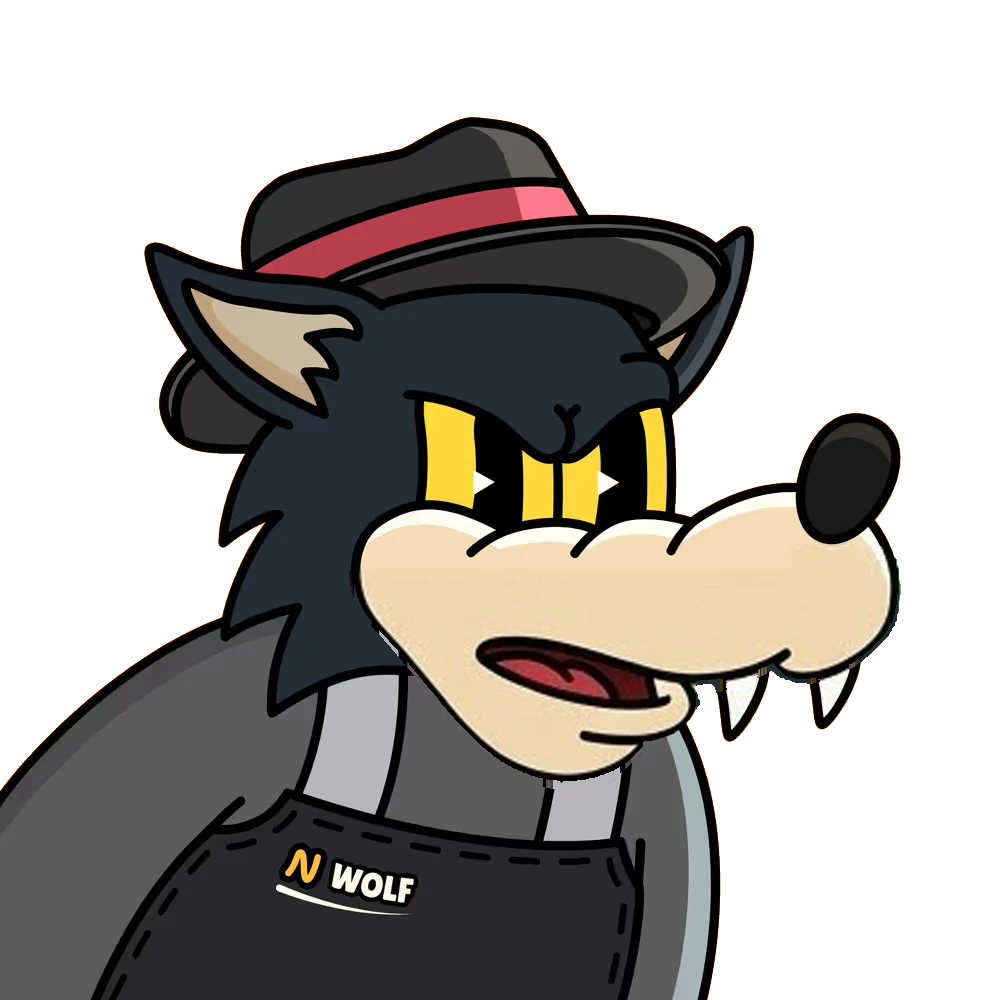
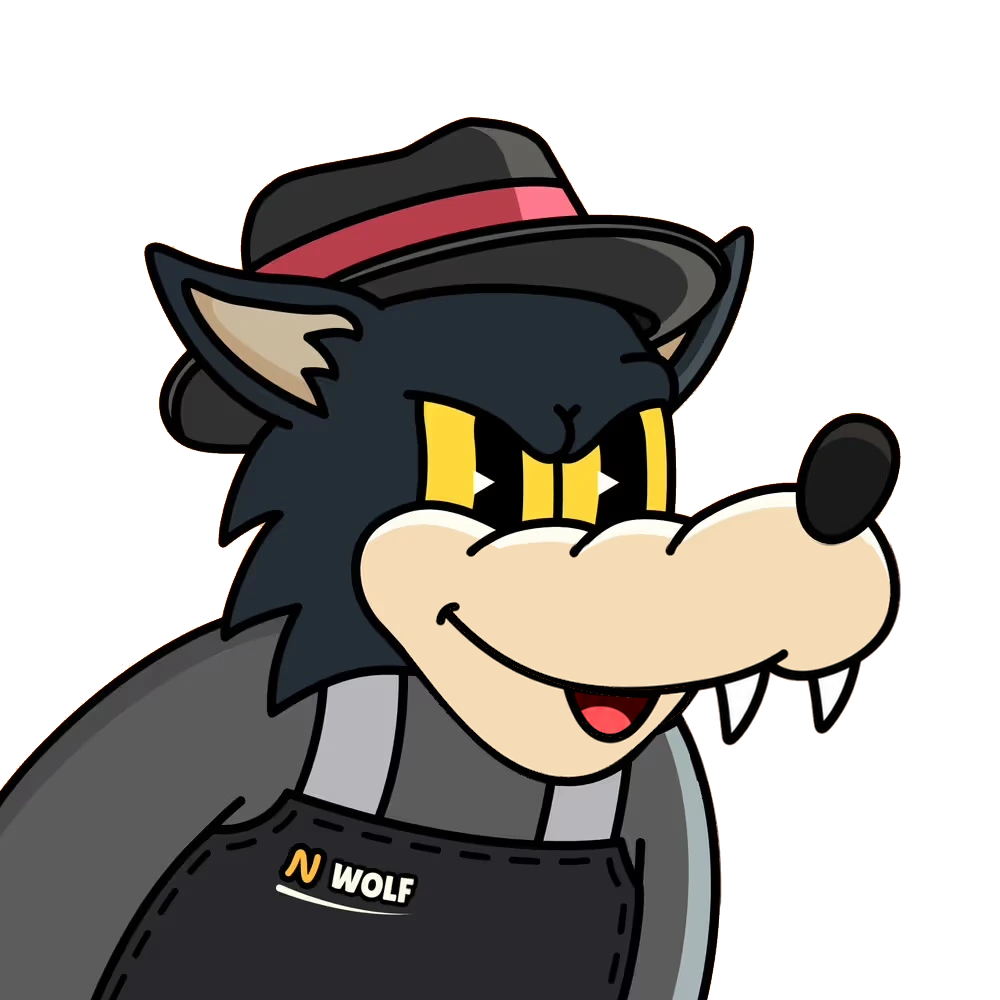
Wolf kit (#271): new mouths from GEAUX's six Gemini pictures (closed, small open, AH, EE, O, OO; F/V, L and frown from them), taken whole from the lined-up pictures (fit 0.999), the fangs gone in O and OO, the muzzle in the picture's own cream, the picture's own clothes kept. Kit engine: a wearer's 
Claude-Session: https://claude.ai/code/session_01AAjfD4JXrwKrGtAMJHTTVa

diff --git a/beta/kit.js b/beta/kit.js
@@ -395,6 +395,11 @@ export function fromKit(Timg, ref, { blink = true, dbg = null, wideFace = false,
       // the reference's clothes showing: filled from this Nibble's own; any other colour (a lighter lip Gemini drew) is its chin
       if (chinT && !inPal(clothP, D[i], D[i + 1], D[i + 2]) && !map(D[i], D[i + 1], D[i + 2])) { const sc = Math.min(1.1, lum(D, i) / lumJaw); subst0.set(p, chinT.map(v => Math.max(0, Math.min(255, Math.round(v * sc))))); }
       else hole[p] = 1; }
+    // where this Nibble shows its own clothes (or their outlines) in its own picture, they're simply there: kept, not
+    // guessed from around (the guess left scraps of shirt and skin under the chin, GEAUX's sitcom wolves)
+    const ownCloth = new Uint8Array(N * N);
+    for (let p = 0; p < N * N; p++) { if (!hole[p] && !(useG[p] && subst0.has(p))) continue; const i = p * 4;
+      if (T[i + 3] > 200 && !(D[i + 3] > 150 && lum(D, i) < 100) && (tCloth[p] || (lum(T, i) < 100 && tClothNear[p]))) { hole[p] = 0; subst0.delete(p); ownCloth[p] = 1; } }   // (never the mouth's own outline)
     for (let p = 0; p < N * N; p++) if (stick[p] && !useG[p]) { hole[p] = 1; useG[p] = 1; }
     // nothing of the reference's own body may come through: where this mouth leaves the reference's clothes or
     // accessories as they were, this Nibble keeps its own; where it shows them moved, or shows any colour this Nibble
@@ -402,11 +407,17 @@ export function fromKit(Timg, ref, { blink = true, dbg = null, wideFace = false,
     // unchanged by this mouth: the same colour AND both there (an ink line the mouth draws past the reference's outline,
     // where the reference is see-through black, isn't 'unchanged': it was being dropped, leaving gaps in the outline)
     const sameDR = i => dist(D, i, R, i) <= 30 && Math.abs(D[i + 3] - R[i + 3]) <= 60;
-    const keepT = new Uint8Array(N * N), foreign = new Uint8Array(N * N), subst = subst0;
-    for (let p = 0; p < N * N; p++) { if (!useG[p] || hole[p] || subst.has(p)) continue; const i = p * 4; if (D[i + 3] < 200) continue;
+    const keepT = ownCloth, foreign = new Uint8Array(N * N), subst = subst0;
+    for (let p = 0; p < N * N; p++) { if (!useG[p] || hole[p] || subst.has(p) || keepT[p]) continue; const i = p * 4; if (D[i + 3] < 200) continue;
       const mouthy = isMouthC(D[i], D[i + 1], D[i + 2]);
+      // the reference's own clothes (not skin, not ink), only redrawn a shade off by the image tool: never part of a
+      // talking mouth, this Nibble's own stays (a grey suspender came through as cream scraps on a plaid shirt)
+      if (!mouthy && R[i + 3] > 200 && lum(R, i) >= 150 && !isSkin(R, i) && !isMouthC(R[i], R[i + 1], R[i + 2]) && dist(D, i, R, i) < 100 && !isSkin(D, i)) { keepT[p] = 1; continue; }
       // unchanged by this mouth: this Nibble's own, except where its own mouth is being replaced
       if (sameDR(i) && T[i + 3] < 40) { keepT[p] = 1; continue; }
+      // and where no talking mouth of the kit changes anything at all (below the jaw: the reference's suspenders, collar,
+      // neck): this Nibble's own, always (they were recoloured as if skin and left cream scraps on a plaid shirt)
+      if (sameDR(i) && hits[p] < 2 && T[i + 3] > 200) { keepT[p] = 1; continue; }
       // below the mouth, outside the mouth itself, unchanged by this mouth: this Nibble's own clothes and their lines stay
       // (a naked reference's neck fur was painted over a tank top's neckline)
       if (sameDR(i) && ((p / N) | 0) > zy && T[i + 3] > 200 && (tCloth[p] || (lum(T, i) < 100 && tClothNear[p]))) { keepT[p] = 1; continue; }   // this Nibble has nothing here (the reference's backpack edge isn't its)
@@ -430,9 +441,24 @@ export function fromKit(Timg, ref, { blink = true, dbg = null, wideFace = false,
       hole[p] = 1; } }
     // a hole on the reference's jaw skin that isn't its clothes showing (a lip, a chin shade): this Nibble's own chin colour
     if (chinT) for (let p = 0; p < N * N; p++) { if (!hole[p] || stick[p]) continue; const i = p * 4;
+      if (T[i + 3] > 200 && !(D[i + 3] > 150 && lum(D, i) < 100) && (tCloth[p] || (lum(T, i) < 100 && tClothNear[p]))) { hole[p] = 0; keepT[p] = 1; continue; }   // (this Nibble's own clothes there: kept, not a chin-coloured arc)
       if ((onJawR(i) || (R[i + 3] > 200 && isSkin(R, i) && ((p / N) | 0) > zy)) && D[i + 3] > 200 && lum(D, i) >= 300 && !inPal(botP, D[i], D[i + 1], D[i + 2])) {
         hole[p] = 0; const sc = Math.min(1.1, lum(D, i) / lumJaw); subst.set(p, chinT.map(v => Math.max(0, Math.min(255, Math.round(v * sc))))); } }
     const fill = inpaint(T, grow(hole, 1), useG);
+    // something the kit's mouth takes away (the wolf's fangs, gone in the O and OO): what's behind it on this Nibble. Where
+    // the reference shows background around it and this Nibble shows background there too, background; where this Nibble
+    // has something there (a hood behind the fangs), that, in its own colour
+    const behind = new Map();
+    { const gone = new Uint8Array(N * N); for (let p = 0; p < N * N; p++) { const i = p * 4; if (useG[p] && R[i + 3] > 40 && D[i + 3] < 40 && T[i + 3] > 40) gone[p] = 1; }
+      const lab = new Int32Array(N * N), q = new Int32Array(N * N);
+      for (let s0 = 0; s0 < N * N; s0++) { if (!gone[s0] || lab[s0]) continue; let h = 0, t = 0; q[t++] = s0; lab[s0] = 1;
+        while (h < t) { const p = q[h++], x = p % N; for (const j of [x > 0 ? p - 1 : -1, x < N - 1 ? p + 1 : -1, p - N, p + N]) if (j >= 0 && j < N * N && gone[j] && !lab[j]) { lab[j] = 1; q[t++] = j; } }
+        // the ring just outside it where the reference shows background
+        const seen = new Set(), cols = []; let bgN = 0, n = 0;
+        for (let k = 0; k < t; k++) { const p = q[k], x = p % N; for (let dy = -8; dy <= 8; dy += 2) for (let dx = -8; dx <= 8; dx += 2) { const xx = x + dx, j = p + dy * N + dx; if (xx < 0 || xx >= N || j < 0 || j >= N * N || gone[j] || seen.has(j)) continue; seen.add(j);
+          if (R[j * 4 + 3] > 60) continue; n++; if (T[j * 4 + 3] < 60) bgN++; else if (lum(T, j * 4) >= 150) cols.push(j); } }
+        if (n && bgN < n * 0.5 && cols.length) { const md = c => { const v = cols.map(j => T[j * 4 + c]).sort((x, y) => x - y); return v[v.length >> 1]; }, c = [md(0), md(1), md(2)];
+          for (let k = 0; k < t; k++) behind.set(q[k], c); } } }
     if (dbg) { const c = new Uint8Array(N * N); for (let p = 0; p < N * N; p++) c[p] = !useG[p] ? 0 : hole[p] ? 3 : keepT[p] ? 2 : subst.has(p) ? 4 : 1; (dbg.cls = dbg.cls || [])[k] = c; }
     const a = soft(useG), c = cv(), g = c.getContext('2d'), id = g.createImageData(N, N), o = id.data;
     for (let p = 0; p < N * N; p++) { const i = p * 4, w = a[p];
@@ -445,7 +471,15 @@ export function fromKit(Timg, ref, { blink = true, dbg = null, wideFace = false,
       // Nibble's clothes stay (the reference is naked there; a shadow in its fur colour covered the shirt)
       const clothesT = !f && !teeth && !keepT[p] && !subst.has(p) && ((p / N) | 0) > zy && T[i + 3] > 200 && D[i + 3] > 200 && lum(D, i) < 330 && lum(D, i) >= 75 && isSkin(D, i)
         && !isMouthC(D[i], D[i + 1], D[i + 2]) && tBotP && inPal(tBotP, T[i], T[i + 1], T[i + 2]) && !inPal(tFaceP, T[i], T[i + 1], T[i + 2]) && !isSkin(R, i) === false && dist(T, i, R, i) > 60;
-      let m = f ? f : teeth ? [D[i], D[i + 1], D[i + 2]] : subst.has(p) ? subst.get(p) : keepT[p] || clothesT ? [T[i], T[i + 1], T[i + 2]] : (mapped(D, i) || [T[i], T[i + 1], T[i + 2]]); const da = f ? 255 : keepT[p] || clothesT ? T[i + 3] : D[i + 3];
+      // see-through in the kit's frame where the reference itself is (nearly) see-through: the mouth takes nothing away
+      // there, so this Nibble's own (a hood's edge beside the jaw came out see-through)
+      if (!f && D[i + 3] < 40 && R[i + 3] < 40 && T[i + 3] > 40 && !behind.has(p)) { for (let ch = 0; ch < 4; ch++) o[i + ch] = T[i + ch]; continue; }
+      if (behind.has(p)) { const c = behind.get(p); for (let ch = 0; ch < 3; ch++) o[i + ch] = Math.round(T[i + ch] * (1 - w) + c[ch] * w); o[i + 3] = 255;
+        const x = p % N, y = (p / N) | 0; if (x < mb[0]) mb[0] = x; if (y < mb[1]) mb[1] = y; if (x > mb[2]) mb[2] = x; if (y > mb[3]) mb[3] = y; continue; }
+      // a line the mouth draws (near-black, where the reference had something else): ink, never recoloured (a reference with
+      // near-black fur taught the map 'dark becomes red' on a hooded Nibble, and the new mouth's outline came out red)
+      const newInk = !f && D[i + 3] > 150 && lum(D, i) < 100 && Math.max(D[i], D[i + 1], D[i + 2]) - Math.min(D[i], D[i + 1], D[i + 2]) < 25 && (dist(D, i, R, i) > 40 || R[i + 3] < 150);
+      let m = f ? f : teeth || newInk ? [D[i], D[i + 1], D[i + 2]] : subst.has(p) ? subst.get(p) : keepT[p] || clothesT ? [T[i], T[i + 1], T[i + 2]] : (mapped(D, i) || [T[i], T[i + 1], T[i + 2]]); const da = f ? 255 : keepT[p] || clothesT ? T[i + 3] : D[i + 3];
       const shine = lum(D, i) >= 630 && Math.max(D[i], D[i + 1], D[i + 2]) - Math.min(D[i], D[i + 1], D[i + 2]) < 40 && !teethM[p];   // white, but not a block of teeth
       if (!f && !teeth && !keepT[p] && !subst.has(p) && D[i + 3] > 200 && lum(D, i) >= 160 && (shine || !isMouthC(D[i], D[i + 1], D[i + 2]))) {
         // a shine a touch lighter than the face (a lip highlight) is this Nibble's face colour, a touch lighter
@@ -496,7 +530,9 @@ export function fromKit(Timg, ref, { blink = true, dbg = null, wideFace = false,
         if (inZ < t * 0.25 && cy < zy - 20) { for (let k = 0; k < t; k++) acc[q[k]] = 1; continue; } }
       if (donor || rig) continue;   // (the donor already shows the face there; a drawn mouth leaves the rest of the face alone)
       if (inZ < t * 0.25 || t > 30000) continue;   // mostly outside the mouth: clothes, a collar, not the mouth
-      for (let k = 0; k < t; k++) { const p = q[k], i = p * 4; if (Zd[p] || R[i + 3] < 200 || T[i + 3] < 100) continue; if (isSkin(R, i) || lum(R, i) < 160) bh[p] = 1; } }
+      for (let k = 0; k < t; k++) { const p = q[k], i = p * 4; if (Zd[p] || R[i + 3] < 200 || T[i + 3] < 100) continue;
+        if (tBotP && inPal(tBotP, T[i], T[i + 1], T[i + 2]) && !inPal(tFaceP, T[i], T[i + 1], T[i + 2])) continue;   // (this Nibble's clothes: not its mouth; a plaid shirt's edge was painted cream)
+        if (isSkin(R, i) || lum(R, i) < 160) bh[p] = 1; } }
     { let n = 0; for (let p = 0; p < N * N; p++) if (acc[p] && Zd[p]) n++;
       if (n) { const am = new Uint8Array(N * N); for (let p = 0; p < N * N; p++) if (acc[p] && Zd[p]) am[p] = 1;
         const aw = soft(grow(am, 1), 0.8);

diff --git a/beta/index.html b/beta/index.html
@@ -499,7 +499,7 @@ const codeURL = f => new URL(CODE + f + '?v=' + ART_V, document.baseURI).href;
 // (and when one won't load, the tracking device notes the address and what the server said, so a phone's failure can be told
 // apart: not found, a network drop, or the script itself)
 const codeImport = f => import(codeURL(f)).catch(async e => { try { const r = await fetch(codeURL(f), { cache:'no-store' }); trk('importFailed', [codeURL(f), r.status, (r.headers.get('content-type') || '').slice(0, 40), String(e && e.message || e).slice(0, 120)]); } catch (e2) { trk('importFailed', [codeURL(f), 'no answer', String(e2).slice(0, 80)]); } throw e; });   // (the beta copy keeps its own code in beta/; art and data are shared)
-const ART_V = '20261121-1830';   // bump when art changes, so phones never show old cached frames
+const ART_V = '20261121-1945';   // bump when art changes, so phones never show old cached frames
 const MP_MODEL = 'https://storage.googleapis.com/mediapipe-models/face_landmarker/face_landmarker/float16/1/face_landmarker.task';
 
 // Each Nibble: eye layers e0–e4 and ten whole-face mouth frames m0–m9, all lined up at 1000×1000.

diff --git a/index.html b/index.html
@@ -489,7 +489,7 @@ header .credit b{font-weight:400}
 // ---------------------------------------------------------------------------
 const MP_VERSION = '0.10.14';
 const CODE = document.documentElement.dataset.code || '';   // (the beta copy keeps its own code in beta/; art and data are shared)
-const ART_V = '20261121-1830';   // bump when art changes, so phones never show old cached frames
+const ART_V = '20261121-1945';   // bump when art changes, so phones never show old cached frames
 const MP_MODEL = 'https://storage.googleapis.com/mediapipe-models/face_landmarker/face_landmarker/float16/1/face_landmarker.task';
 
 // Each Nibble: eye layers e0–e4 and ten whole-face mouth frames m0–m9, all lined up at 1000×1000.

diff --git a/tools/kit_keep_clothes.py b/tools/kit_keep_clothes.py
@@ -1,0 +1,33 @@
+# A kit's talking frames keep the kit picture's own clothes, pixel for pixel: the image tool redraws the suspenders, collar
+# or shirt a few pixels off, and the kit engine took that as part of the mouth (cream and grey stripes through other
+# wolves' hoods and shirts, GEAUX's sitcom). Where a frame shows clothes (not the face colour, the mouth's colours, or an
+# outline right next to them), the kit picture's own pixel goes back.
+# Usage: python3 tools/kit_keep_clothes.py <ref> <face r,g,b> [frames]   (only solid pixels: never anything see-through)
+import sys, numpy as np
+from PIL import Image
+from scipy import ndimage
+ref = sys.argv[1]; face = np.array([int(v) for v in sys.argv[2].split(',')]); frames = [int(a) for a in sys.argv[3:]] or list(range(1, 10))
+KEEP = { '271':(690, 610, 905, 780) }.get(ref)   # the wolf's fangs (gone on purpose in the O and OO)
+b = np.array(Image.open(f'faces/{ref}/base.webp').convert('RGBA')).astype(int)
+def kinds(a):
+    rgb = a[..., :3]; s = rgb.sum(-1); op = a[..., 3] > 128
+    skin = op & (np.abs(rgb - face).sum(-1) < 70)
+    mouth = op & (((rgb[..., 0] > rgb[..., 1] * 1.6) & (rgb[..., 0] > 90)) | ((rgb.min(-1) > 225) & (rgb.max(-1) - rgb.min(-1) < 30)))   # reds, pinks, teeth
+    ink = op & (s < 200)
+    return skin, mouth, ink, op
+bs, bm, bi, bo = kinds(b)
+for k in frames:
+    f = f'faces/{ref}/m{k}.webp'; a = np.array(Image.open(f).convert('RGBA')).astype(int)
+    s_, m_, i_, o_ = kinds(a)
+    facey = ndimage.binary_dilation(s_ | m_, iterations=5) | ndimage.binary_dilation(ndimage.binary_dilation(s_ | m_, iterations=2) & (a[..., :3].sum(-1) < 200), iterations=8) & (a[..., :3].sum(-1) < 200)   # the face and mouth, and the whole outline round them
+    bfacey = ndimage.binary_dilation(bs | bm, iterations=5)
+    clothes = o_ & ~facey                                                   # this frame shows clothes or background here
+    revert = clothes & ~bfacey & bo & (np.abs(a - b).sum(-1) > 0)           # ...and the kit picture shows clothes here too (both solid)
+    if KEEP: x0, y0, x1, y1 = KEEP; yy, xx = np.mgrid[0:a.shape[0], 0:a.shape[1]]   # (never where the frame drew something on purpose)
+    # and anywhere the frame shows only a re-shade of the picture (neither is face or mouth, both solid, close in colour):
+    # the image tool redrew it a touch off, not a change; the picture's own (a suspender box and an apron logo came through)
+    revert |= o_ & bo & ~s_ & ~m_ & ~bs & ~bm & (np.abs(a[..., :3] - b[..., :3]).sum(-1) < 150)
+    if KEEP: revert &= ~((xx >= x0) & (xx <= x1) & (yy >= y0) & (yy <= y1))
+    a[revert] = b[revert]
+    Image.fromarray(a.astype(np.uint8)).save(f, 'WEBP', lossless=True)
+    print(k, 'kept the picture\'s own clothes at', int(revert.sum()), 'px')

diff --git a/tools/kit_from_aligned.py b/tools/kit_from_aligned.py
@@ -1,0 +1,18 @@
+# A kit's mouths straight from image-tool edits that line up with the kit picture pixel for pixel (Gemini, fit 0.999):
+# the whole lower face is taken from the edit inside a box (the jaw, chin and its outline, which kit_from_edits.py's soft
+# mouth area cut short on a wolf's wide-open jaw), the edit's white background stays see-through where the picture is,
+# and nothing outside the box changes. Then tools/kit_keep_clothes.py puts the picture's own clothes back.
+# Usage: python3 tools/kit_from_aligned.py <ref> <x0,y0,x1,y1> <frame>=<aligned picture> ...
+import sys, numpy as np
+from PIL import Image
+from scipy import ndimage
+ref = sys.argv[1]; x0, y0, x1, y1 = [int(v) for v in sys.argv[2].split(',')]
+b = np.array(Image.open(f'faces/{ref}/base.webp').convert('RGBA')).astype(float); N = b.shape[0]
+yy, xx = np.mgrid[0:N, 0:N]; box = (xx >= x0) & (xx <= x1) & (yy >= y0) & (yy <= y1)
+a_soft = ndimage.gaussian_filter(box.astype(float), 2)[..., None]   # (a soft edge, in case the box crosses anything)
+for arg in sys.argv[3:]:
+    k, pic = arg.split('='); e = np.array(Image.open(pic).convert('RGB').resize((N, N))).astype(float)
+    white = e.min(-1) > 238; lab, _ = ndimage.label(white); edge = np.unique(np.concatenate([lab[0], lab[-1], lab[:, 0], lab[:, -1]])); bgw = np.isin(lab, edge[edge > 0])
+    out = b.copy(); ea = np.where(bgw, 0, 255).astype(float)   # (the edit says background: see-through, also where the picture had a fang)
+    E = np.dstack([e, ea]); out = b * (1 - a_soft) + E * a_soft
+    Image.fromarray(np.clip(out, 0, 255).astype(np.uint8)).save(f'faces/{ref}/m{k}.webp', 'WEBP', lossless=True); print(k, 'taken')

diff --git a/tools/align_edit.py b/tools/align_edit.py
@@ -10,7 +10,7 @@ ref, pic, out = sys.argv[1], sys.argv[2], sys.argv[3]
 rows, cols = (int(sys.argv[4]), int(sys.argv[5])) if len(sys.argv) > 5 else (1, 1)
 b = Image.open(f'faces/{ref}/base.webp').convert('RGBA'); w = Image.new('RGBA', b.size, (255, 255, 255, 255)); w.alpha_composite(b)
 base = np.array(w.convert('RGB')); N = base.shape[0]
-MOUTH = { '310':(400, 560, 860, 860), '929':(520, 540, 760, 800) }[ref]    # left out of the fit (it's what changed)
+MOUTH = { '310':(400, 560, 860, 860), '929':(520, 540, 760, 800), '271':(420, 560, 900, 900) }[ref]    # left out of the fit (it's what changed)
 gray = lambda a: cv2.GaussianBlur(cv2.cvtColor(a, cv2.COLOR_RGB2GRAY).astype(np.float32) / 255, (0, 0), 2)
 mask = np.ones((N, N), np.uint8); x0, y0, x1, y1 = MOUTH; mask[y0:y1, x0:x1] = 0
 

diff --git a/tools/kit_from_edits.py b/tools/kit_from_edits.py
@@ -8,9 +8,9 @@ import sys, numpy as np
 from PIL import Image
 from scipy import ndimage
 
-BOX = { '310':(330, 470, 880, 900), '929':(420, 500, 800, 830) }
+BOX = { '310':(330, 470, 880, 900), '929':(420, 500, 800, 830), '271':(400, 540, 920, 920) }
 # kits with a mouth (not a beak): the area always taken (the old mouth line and teeth), as an ellipse (cx, cy, rx, ry)
-MOUTH_AREA = { '929':(600, 620, 165, 80) }
+MOUTH_AREA = { '929':(600, 620, 165, 80), '271':(630, 690, 230, 125) }
 ref, out_dir, pairs = sys.argv[1], sys.argv[2], [a.split('=', 1) for a in sys.argv[3:]]
 base = np.array(Image.open(f'faces/{ref}/base.webp').convert('RGBA')).astype(np.float32)
 N = base.shape[0]; x0, y0, x1, y1 = BOX[ref]
